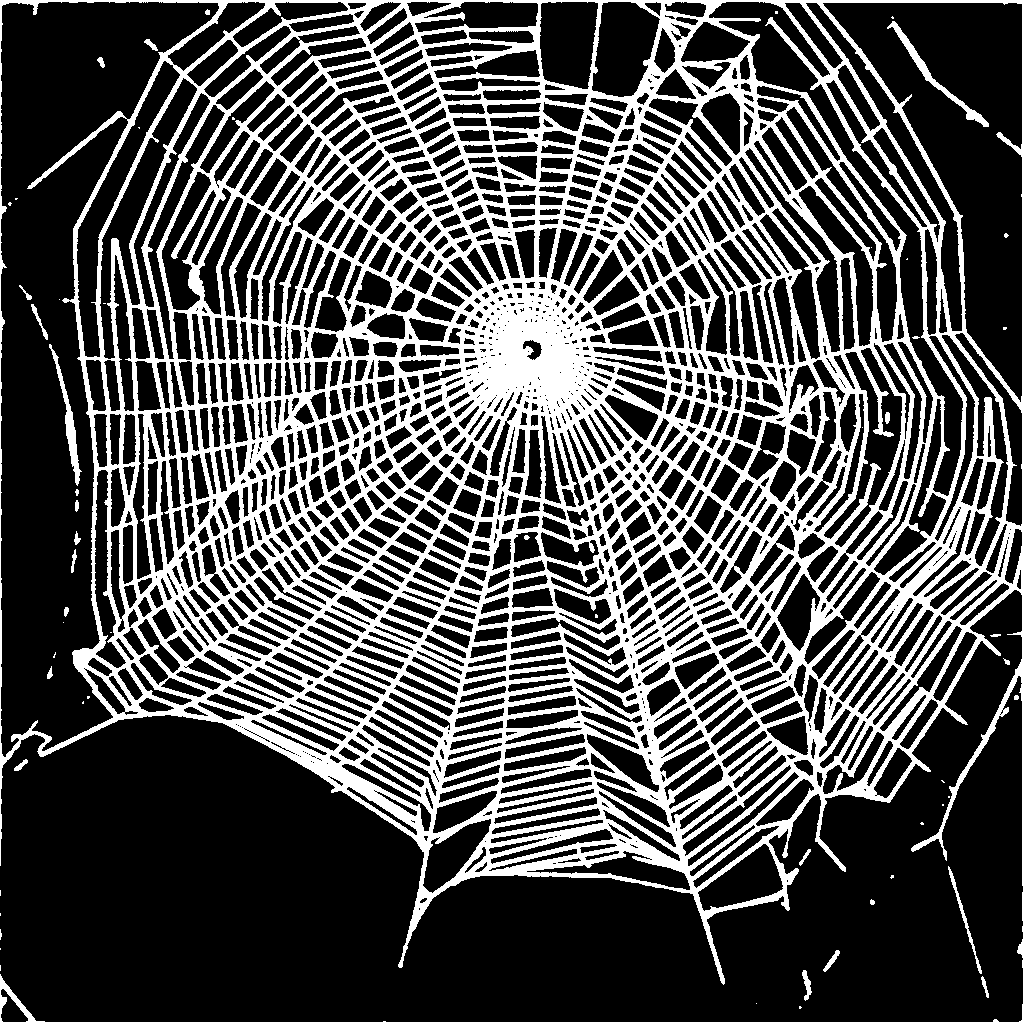
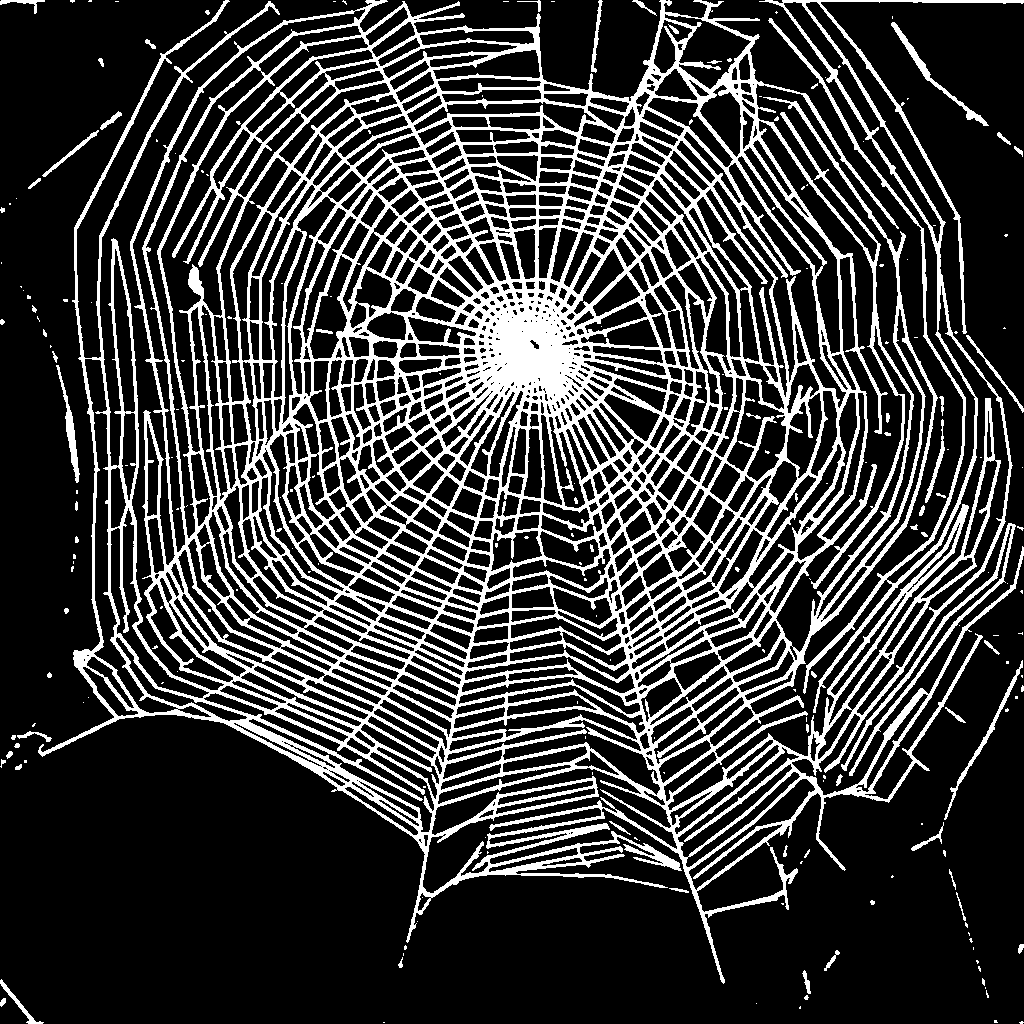
cpu_v7 model good

diff --git a/load-model.py b/load-model.py
@@ -12,7 +12,7 @@ input_dir = "spider_new"
 img_size = (1024, 1024)
 
 # trained_model = keras.saving.load_model("./betamodel_v4.keras", custom_objects=None, compile=True, safe_mode=False)
-trained_model = load_model("./spiders_cpu6.keras", custom_objects=None, compile=True,safe_mode=False)
+trained_model = load_model("./spiders_cpu7.keras", custom_objects=None, compile=True,safe_mode=False)
 
 input_img_paths = sorted(
     [
@@ -38,7 +38,7 @@ def load_img(test_img_path):
     return X_test
 
 def save_mask():
-    preds_test_thresh = (val_preds >= 0.5).astype(np.uint8)
+    preds_test_thresh = (val_preds >= 0.50).astype(np.uint8)
 
     for i in range(len(X_test)):
         print("Store img: " + str(i + 1))
@@ -47,7 +47,7 @@ def save_mask():
 
 def display_mask(i):
     """Quick utility to display a model's binary prediction mask."""
-    preds_test_thresh = (val_preds >= 0.5).astype(np.uint8)
+    preds_test_thresh = (val_preds >= 0.50).astype(np.uint8)
 
     test_img = preds_test_thresh[i, :, :, 0]
 

diff --git a/unet-sperm.py b/unet-sperm.py
@@ -39,7 +39,7 @@ epochs = 200
 batch_size = 3
 val_samples = 25
 epoch_patience = 25
-model_learning_rate = 0.00135
+model_learning_rate = 0.00165
 validation_split = 0.3
 
 input_ext = ".jpg"
@@ -254,7 +254,7 @@ valid_dataset = get_dataset(
 
 def display_mask(i):
     """Quick utility to display a model's binary prediction mask."""
-    preds_test_thresh = (val_preds >= 0.5).astype(np.uint8)
+    preds_test_thresh = (val_preds >= 0.50).astype(np.uint8)
     test_img = preds_test_thresh[i, :, :, 0]
 
     # Adds a subplot at the 3rd position 
@@ -308,7 +308,7 @@ val_preds = model.predict(X_test)
 # Display mask predicted by our model
 display_mask(i)  # Note that the model only sees inputs at 150x150.
 
-model.save('./spiders_cpu6.keras')  # The file needs to end with the .keras extension
+model.save('./spiders_cpu7.keras')  # The file needs to end with the .keras extension
 
 fig.add_subplot(rows, columns, 4) 
 plt.plot(history.history['accuracy'], label='train') 
